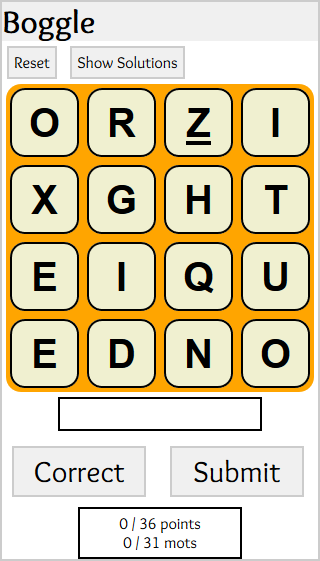
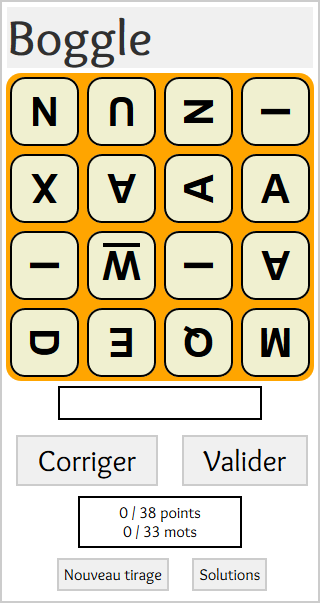
minor styling

diff --git a/index.html b/index.html
@@ -14,7 +14,7 @@
   <!-- Open Graph protocol : http://ogp.me/ -->
   <meta property="og:title" content="Boggle">
   <meta property="og:type" content="website">
-  <meta property="og:description" content="The game Boggle.">
+  <meta property="og:description" content="Le jeu Boggle.">
   <meta property="og:url" content="https://lenaindelaforetmagique.github.io/Boggle/">
   <meta property="og:image" content="http://lenaindelaforetmagique.github.io/Boggle/screenshot.png">
 
@@ -50,7 +50,7 @@
   </div>
   <footer id="footer">
     <p>
-      <a href="https://lenaindelaforetmagique.github.io/" target="_blank"> Copyright (c) 2019 Xavier Morin</a>
+      <a href="https://lenaindelaforetmagique.github.io/" target="_blank">Copyright (c) 2019 Xavier Morin</a>
     </p>
   </footer>
   <script src="dictionary.js"></script>

diff --git a/style.css b/style.css
@@ -26,7 +26,7 @@ h1 {
 .button {
   display: inline-block;
   background: #f0f0f0;
-  margin: 5px;
+  margin: 10px;
   padding: 5px;
   cursor: pointer;
   border: solid;
@@ -37,13 +37,12 @@ h1 {
 .line {
   width: 320px;
   margin: auto;
+  text-align: center;
 }
 
 #submitButton, #bckspButton {
   font-size: 30px;
-  width: 120px;
-  text-align: center;
-  margin: 10px;
+  padding: 5px 20px;
 }
 
 table {
@@ -139,7 +138,7 @@ table {
   background-color: #f0f0f0;
   width: 100%;
   line-height: 1.2;
-  font-size: 10px;
+  font-size: 12px;
 }
 
 .found, .notFound {

diff --git a/boardGame.js b/boardGame.js
@@ -260,7 +260,7 @@ class BoardGame {
           p.innerHTML = letter;
         }
         var angle = Math.floor(Math.random() * 4) * 90;
-        // div.setAttribute("style", "transform:rotate(" + angle + "deg)");
+        div.setAttribute("style", "transform:rotate(" + angle + "deg)");
       }
       this.dom.appendChild(line);
     }
